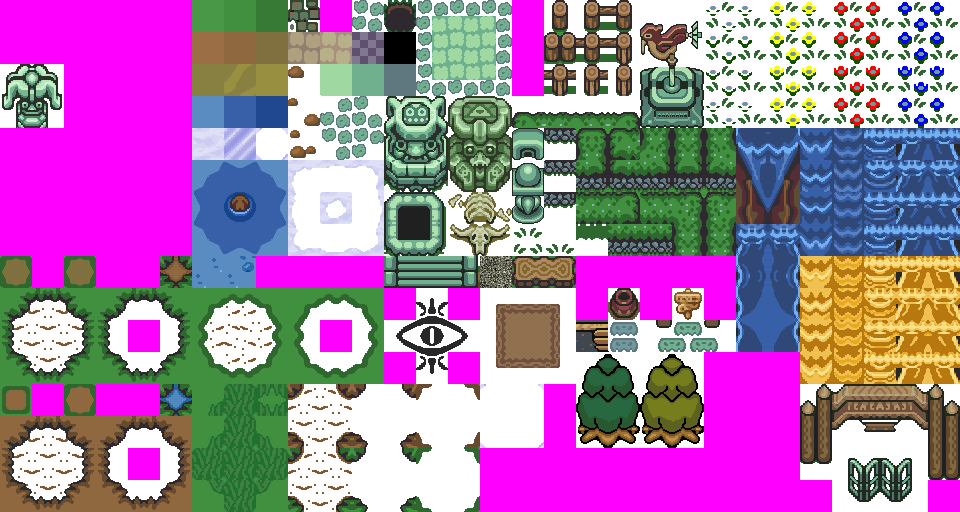
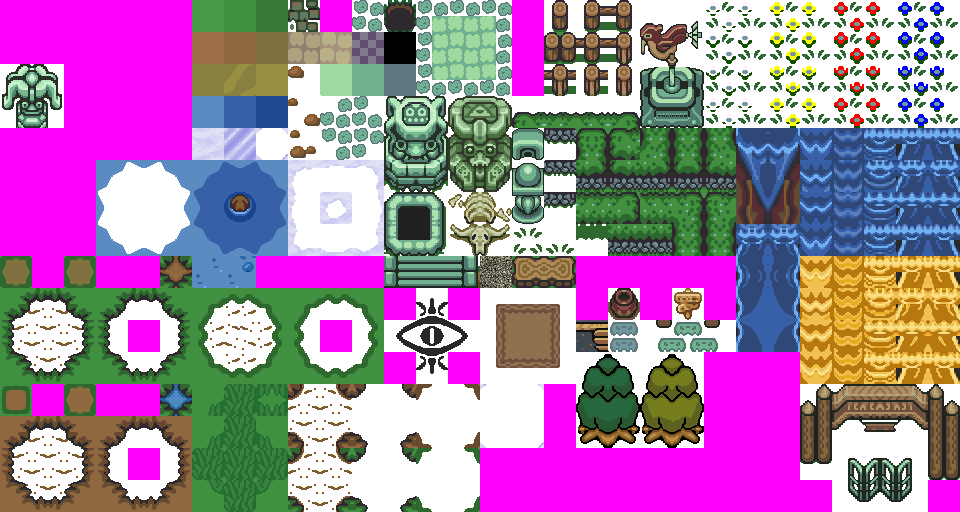
added tiles for coastline smoothed coastline in ados city added glenn's trees in ados

Changed region(s): [[0.0938, 0.3125, 0.2188, 0.5]]

diff --git a/src/games/stendhal/server/StendhalRPWorld.java b/src/games/stendhal/server/StendhalRPWorld.java
@@ -186,6 +186,8 @@ public class StendhalRPWorld extends RPWorld {
 		addArea("0_ados_rock_w");
 		addArea("0_ados_rock");
 		addArea("0_ados_outside_w");
+		// addArea("0_ados_city_w");
+		addArea("0_ados_city");
 
 		addArea("0_orril_mountain_nw");
 		addArea("0_orril_forest_n");
